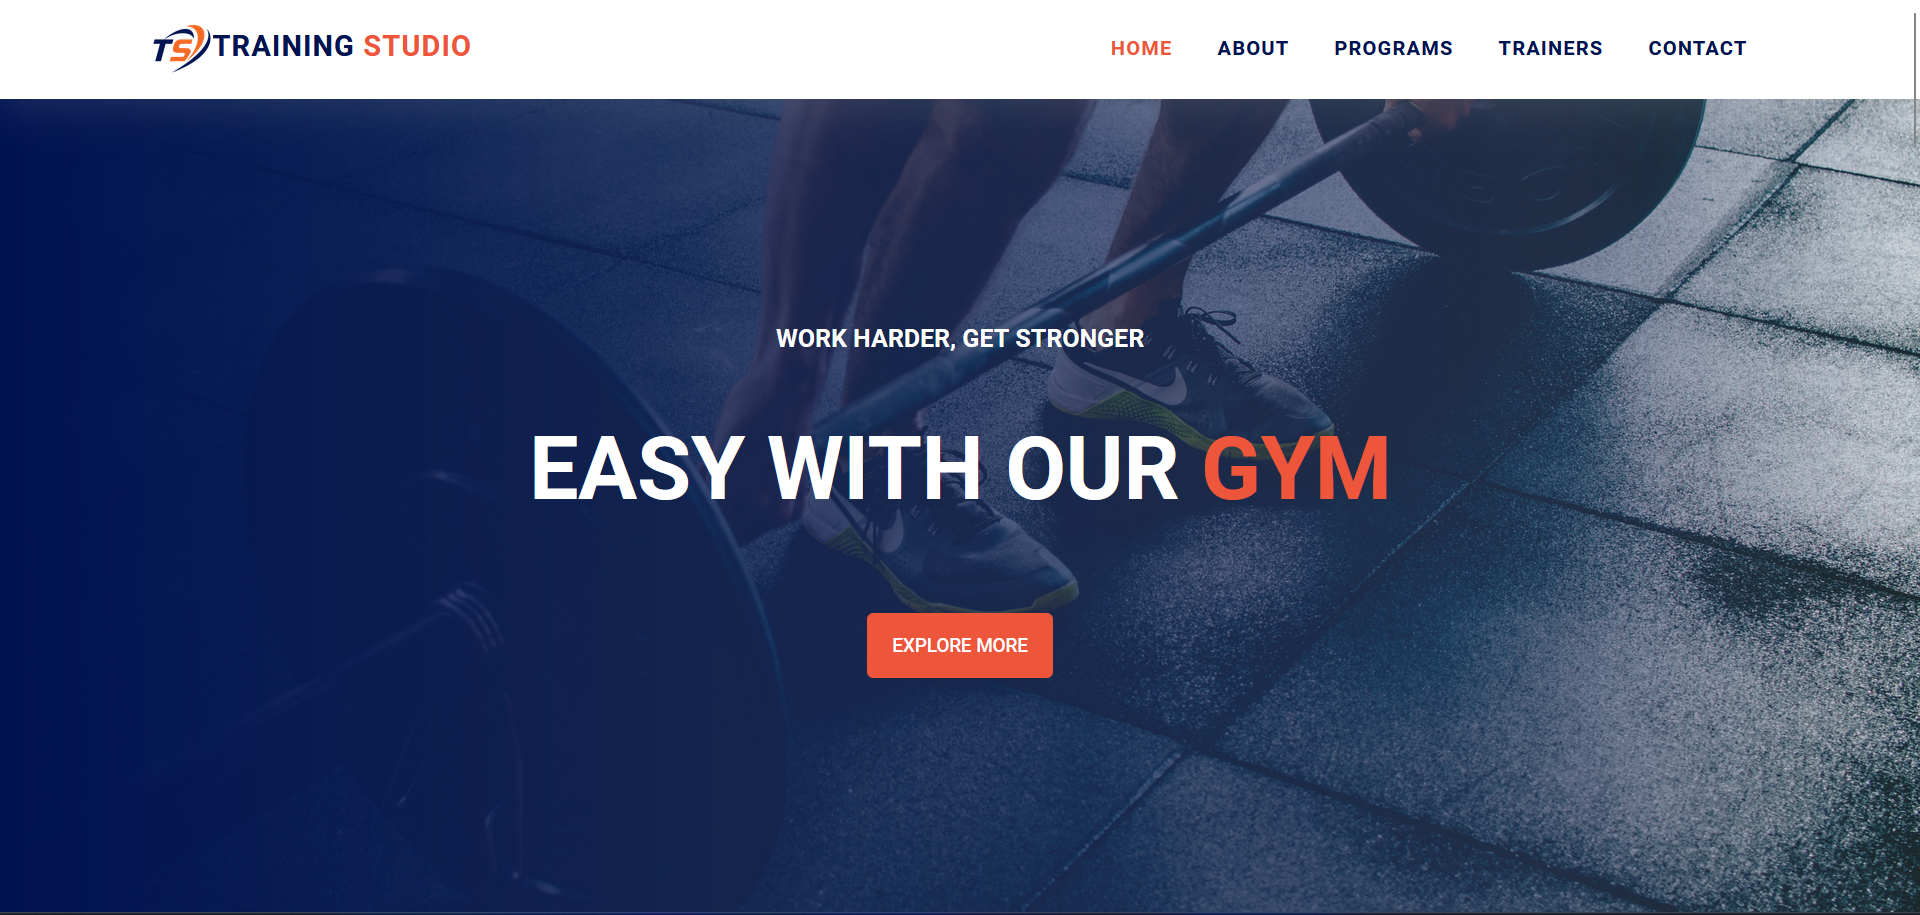
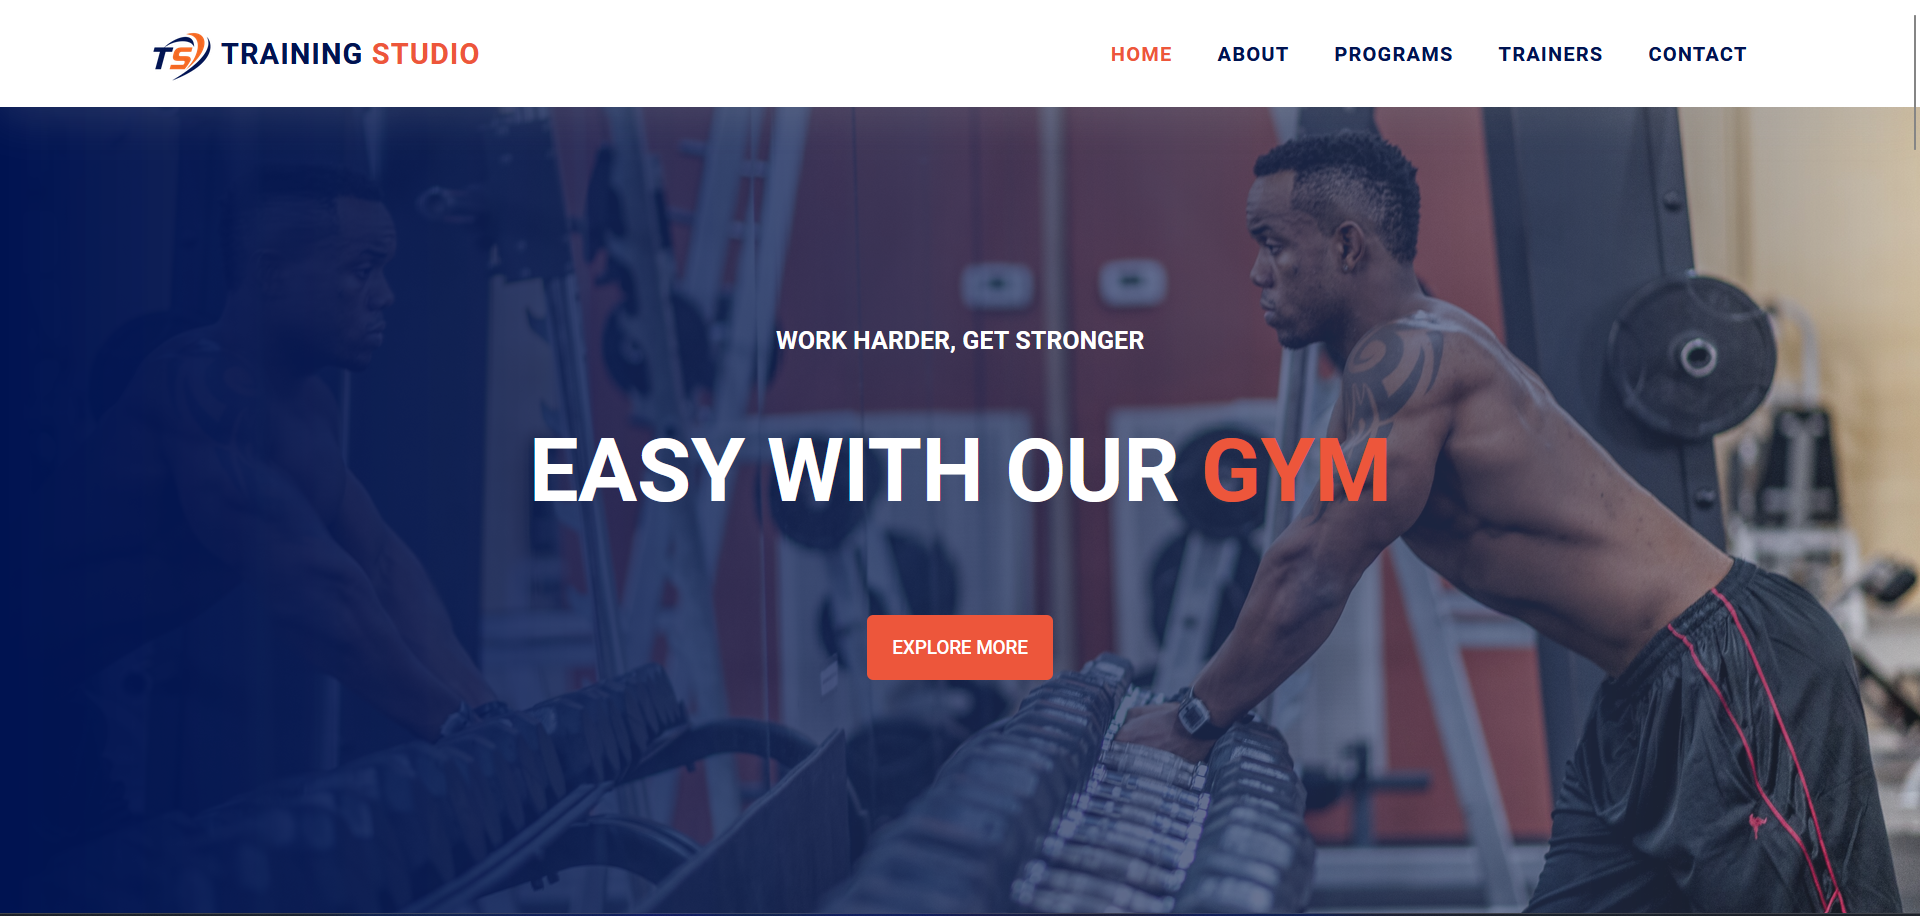
minor fixes

diff --git a/style.css b/style.css
@@ -81,16 +81,13 @@ span {
     text-align: center;
 }
 
-.navbar img{
-    width: 50px;
-}
-
 .navbar-brand {
     font-size: 23px;
     font-weight: 600;
     color: var(--primary-theme-color);
     text-transform: uppercase;
     letter-spacing: 1px;
+    margin-top: 5px;
 }
 
 .navbar-brand:hover{
@@ -101,7 +98,11 @@ span {
     color: var(--primary-theme-color);
 }
 
-.navbar-nav li a {
+.navbar-brand img{
+    width: 50px;
+}
+
+.nav-link {
     text-decoration: none;
     font-size: 16px;
     font-weight: 600;
@@ -112,7 +113,7 @@ span {
     margin: 0 10px;
 }
 
-.navbar-nav li a:hover {
+.nav-link:hover {
     color: var(--secondary-theme-color);
     background: none;
 }
@@ -123,7 +124,7 @@ span {
     background-repeat: no-repeat;
     background-position: center;
     background-size: cover;
-    animation: change 100s infinite ease-out;
+    animation: change 100s infinite;
 }
 
 @keyframes change{
@@ -200,7 +201,7 @@ span {
     margin-top: 25px;
 }
         
-/* About Section */
+/* about section css */
 .about-content h1 {
     font-size: 30px;
     font-weight: bold;
@@ -219,13 +220,12 @@ span {
     border-radius: 20px;
 }
 
-/* programs css */
+/* programs section css */
 #programs{
     background: linear-gradient(to right, #001351 0%, #16275AD0 38%, #2E3C639D 81%, #5C667638 100%), url(../images/background-6.jpg) 0% 0% padding-box;
     background-repeat: no-repeat;
     background-position: center;
     background-size: cover;
-    /* background-color: var(--primary-theme-color); */
 }
 
 .program {
@@ -237,7 +237,6 @@ span {
     align-items: center;
     margin-bottom: 30px;
     padding: 20px;
-    /* box-shadow: 1px 8px 54px #00000012; */
     transition: transform 0.2s ease-in-out;
 }
 
@@ -259,7 +258,7 @@ span {
     color: var(--secondary-text-color);
 }
 
-/* trainers css */
+/* trainers section css */
 .trainer {
     border-radius: 10px;
     padding: 20px 0;
@@ -276,7 +275,7 @@ span {
 .trainer-image {
     margin: auto;
     width: 200px;
-    margin-bottom: 50px;
+    margin-bottom: 35px;
 }
 
 .trainer-image img {
@@ -301,13 +300,12 @@ span {
     color: var(--primary-text-color);
 }
 
-/* contact css */
+/* contact section css */
 #contact{
-    background: linear-gradient(to right, #001351 0%, #16275AD0 38%, #2E3C639D 81%, #5C667638 100%), url(../images/background-5.jpg) 0% 0% padding-box;
+    background: linear-gradient(to right, #001351 0%, #16275AD0 38%, #2E3C639D 81%, #5C667638 100%), url(../images/background-4.jpg) 0% 0% padding-box;
     background-repeat: no-repeat;
     background-position: center;
     background-size: cover;
-    /* background-color: var(--primary-theme-color); */
 }
 
 .contact-details{
@@ -321,7 +319,6 @@ span {
     margin-bottom: 40px;
     padding: 5px 15px;
     border-radius: 10px;
-    /* box-shadow: 1px 8px 54px #00000012; */
     background-color: var(--primary-text-color);
 }
 
@@ -353,7 +350,6 @@ span {
 
 .contact-form {
     border-radius: 10px;
-    /* box-shadow: 1px 8px 54px #00000012; */
     padding: 40px;
     max-width: 500px;
     margin: auto;
@@ -373,7 +369,7 @@ span {
 
 .contact-form form input {
     font-size: 20px;
-    padding: 30px 0px;
+    padding: 25px 5px;
     border-radius: 0;
     border: none;
     box-shadow: none;
@@ -390,7 +386,7 @@ span {
 
 .contact-form form textarea {
     font-size: 20px;
-    padding: 30px 20px;
+    padding: 25px 10px;
     border-radius: 0;
     border: 1px solid var(--border-color);
     border-radius: 4px;
@@ -424,7 +420,7 @@ footer {
 }
 
 /* back to top button css */
-#topButton {
+#top-button {
     display: none;
     position: fixed;
     bottom: 20px;
@@ -442,7 +438,7 @@ footer {
     transition: background-color 0.5s;
 }
 
-#topButton:hover {
+#top-button:hover {
     background-color: var(--primary-theme-color);
 }
 
@@ -462,6 +458,14 @@ footer {
     
     .section-title h3 {
         font-size: 30px;
+    }
+
+    .navbar-brand img {
+        width: 40px;
+    }
+    
+    .navbar-brand {
+        font-size: 18px;
     }
 
     .banner-content h1 {
@@ -540,7 +544,6 @@ footer {
     .contact-form form textarea {
         font-size: 18px;
         padding: 25px 5px;
-        margin-bottom: 20px;
     }
 
     .contact-form form button {

diff --git a/index.html b/index.html
@@ -14,7 +14,8 @@
     <meta name="description" content="At Training Studio, we believe that fitness and wellbeing are the cornerstones
     of a full and vibrant life. Established in 2002, we began our journey as a family-owned
     business dedicated to providing exceptional gym training at affordable prices." />
-    <meta name="keywords" content="training studio, affordable gym, affordable training, boxing, pilates, yoga, bodybuilding, calesthenics, fitness" />
+    <meta name="keywords"
+        content="training studio, affordable gym, affordable training, boxing, pilates, yoga, bodybuilding, calesthenics, fitness" />
 
     <!-- bootstrap css -->
     <link href="https://cdn.jsdelivr.net/npm/bootstrap@5.3.2/dist/css/bootstrap.min.css" rel="stylesheet"
@@ -37,7 +38,7 @@
     <header>
         <nav class="navbar navbar-expand-lg fixed-top ">
             <div class="container">
-                <a class="navbar-brand" href="#"><img src="images/ts-logo.png" class="img-fluid" alt="">Training
+                <a class="navbar-brand" href="#"><img src="images/ts-logo.png" class="img-fluid" alt="">&nbsp;Training
                     <span>Studio</span></a>
                 <button class="navbar-toggler" type="button" data-bs-toggle="collapse" data-bs-target="#navbarNav"
                     aria-controls="navbarNav" aria-expanded="false" aria-label="Toggle navigation">
@@ -71,7 +72,7 @@
         <div class="container">
             <div class="banner-content">
                 <p class="mb-5">work harder, get stronger</p>
-                <h1 class="mb-5">easy with our <span class="banner-span-text"></span></h1>
+                <h1 class="mb-5">easy with our <span class="banner-highlight"></span></h1>
                 <a href="#about" class="button">Explore More</a>
             </div>
         </div>
@@ -316,14 +317,13 @@
                         <h1>Enquiry <span>Form</span></h1>
                         <form id="contact-form">
                             <div class="form-group">
-                                <input type="text" class="form-control" id="name" placeholder="Your Name">
+                                <input type="text" class="form-control" id="name" placeholder="Name" required>
                             </div>
                             <div class="form-group">
-                                <input type="email" class="form-control" id="email" placeholder="Your Email">
+                                <input type="email" class="form-control" id="email" placeholder="Email" required>
                             </div>
                             <div class="form-group">
-                                <textarea class="form-control" id="message" rows="3"
-                                    placeholder="Your Message"></textarea>
+                                <textarea class="form-control" id="message" rows="3" placeholder="Message" required></textarea>
                             </div>
                             <button class="button" type="submit">Submit</button>
                         </form>
@@ -351,7 +351,7 @@
     </footer>
 
     <!-- back to top button -->
-    <button id="topButton" title="Go to top"><i class="fa fa-angle-up"></i></button>
+    <button id="top-button" title="Go to top"><i class="fa fa-angle-up"></i></button>
 
     <!-- main js -->
     <script src="main.js"></script>

diff --git a/main.js b/main.js
@@ -4,7 +4,7 @@ const navLinks = document.querySelectorAll('.nav-link');
 
 let currentSection = 'banner';
 
-window.addEventListener('scroll', () => {
+window.addEventListener('scroll', function () {
     sections.forEach(sections => {
         if (window.scrollY >= (sections.offsetTop - 200)) {
             currentSection = sections.id;
@@ -21,15 +21,17 @@ window.addEventListener('scroll', () => {
 
 
 //handle banner text change
-const text = document.querySelector('.banner-span-text');
+const text = document.querySelector('.banner-highlight');
 
-const textLoad = () => {
+function textLoad() {
     setTimeout(() => {
         text.textContent = "gym";
     }, 0);
+
     setTimeout(() => {
         text.textContent = "programs";
     }, 4000);
+
     setTimeout(() => {
         text.textContent = "trainers";
     }, 8000);
@@ -48,9 +50,9 @@ form.addEventListener('submit', function (e) {
 
 
 //handle back to top button
-var button = document.getElementById("topButton");
+var button = document.getElementById("top-button");
 
-window.addEventListener('scroll', () => {
+window.addEventListener('scroll', function () {
     if (document.body.scrollTop > 20 || document.documentElement.scrollTop > 20) {
         button.style.display = "block";
     } else {
